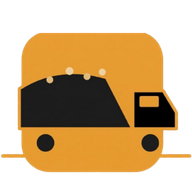
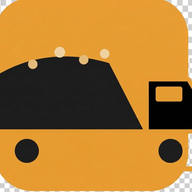
fix: fondo negro splash screen iOS/Android + íconos con fondo oscuro
- layout.tsx: apple-mobile-web-app-capable, status-bar-style black-translucent,
  inline backgroundColor en <html> para eliminar flash blanco inicial
- Regenera apple-touch-icon y android-chrome icons con fondo #09090b

diff --git a/src/app/layout.tsx b/src/app/layout.tsx
@@ -14,12 +14,15 @@ export const metadata: Metadata = {
   },
   other: {
     'theme-color': '#09090b',
+    'apple-mobile-web-app-capable': 'yes',
+    'apple-mobile-web-app-status-bar-style': 'black-translucent',
+    'apple-mobile-web-app-title': 'Transporte JR',
   },
 }
 
 export default function RootLayout({ children }: { children: React.ReactNode }) {
   return (
-    <html lang="es" className="h-full">
+    <html lang="es" className="h-full" style={{ backgroundColor: '#09090b' }}>
       <body className="h-full antialiased">{children}</body>
     </html>
   )
